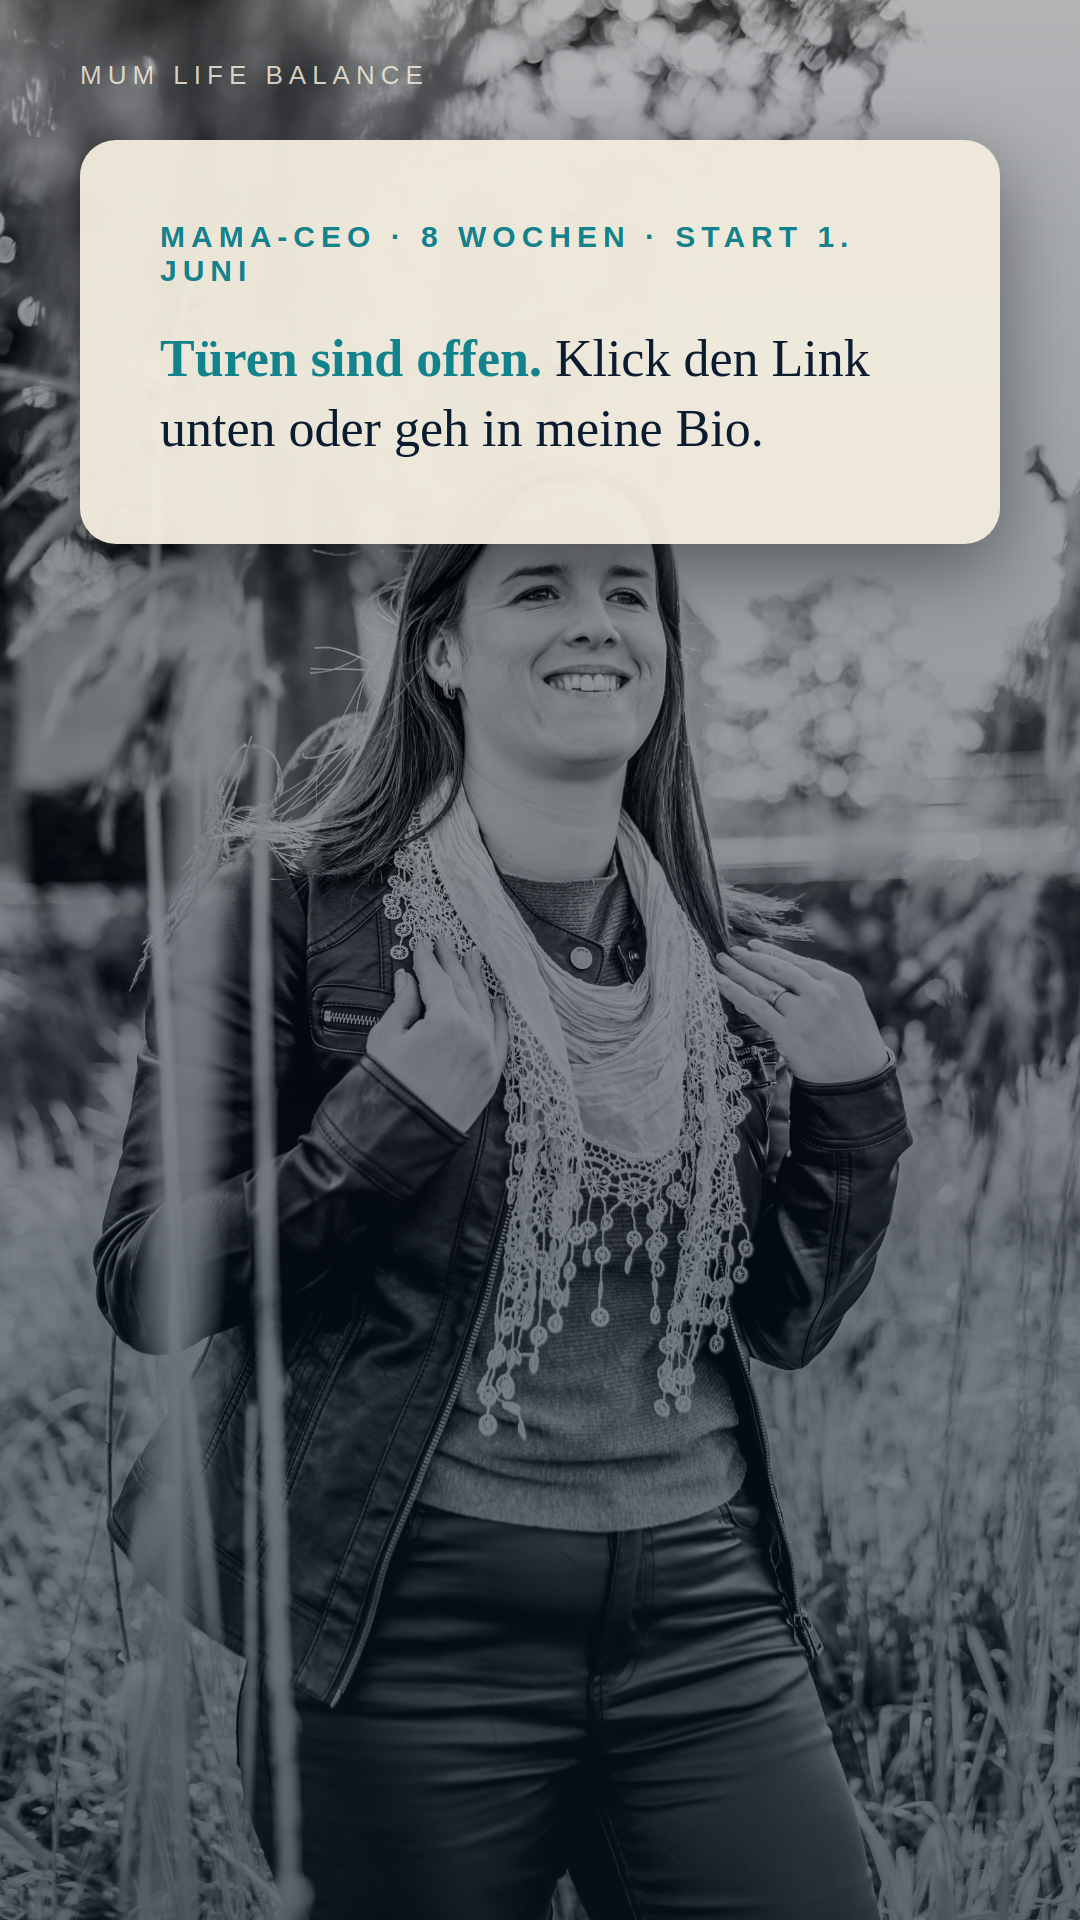
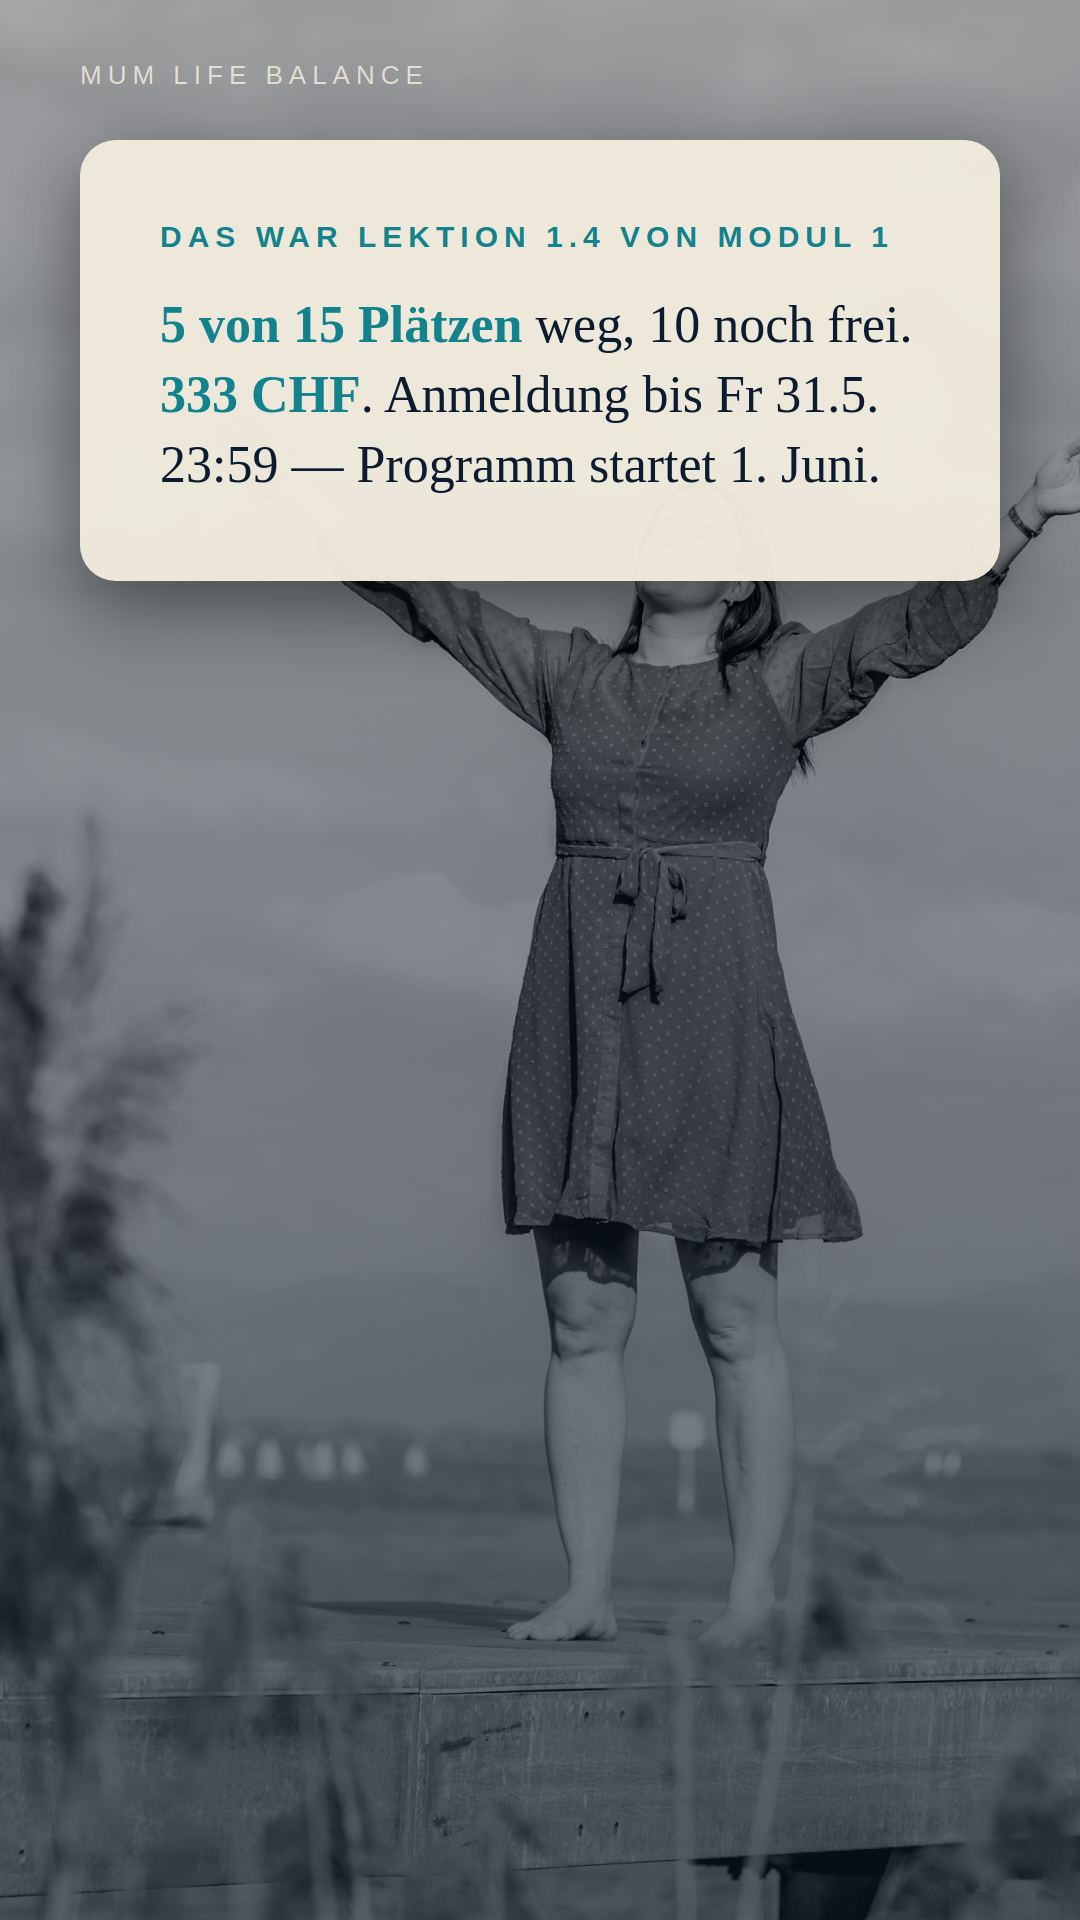
story: Tag 4 v3 — echte Modul-1-Lehre (Lektion 1.4 Power-Window)
Patricia-Korrektur: D/A/S (delegieren/automatisieren/streichen) kommt
aus Stufe-2-Tripwire-Mini-Kurs, NICHT aus Modul 1 von Mama-CEO.
Komplett umgebaut auf echtes Modul-1-Material:

Lektion 1.4 (MASTERY Wochenrhythmus) lehrt:
- 3 Slots: Power-Window + Mama-Slots + Business-Slots
- 1 Wand: Erschoepfungs-Linie

7 Slides bauen das Konzept Schritt fuer Schritt auf:
- Slide 1: Pfingst-Setup + Tipp-Tease
- Slide 2: Konzept „3 Slots + 1 Wand"
- Slide 3: Power-Window (2-3 Fokus-Stunden, schuetzen wie Burg)
- Slide 4: Mama-Slots + Business-Slots erklaert
- Slide 5: Die Erschoepfungs-Wand (Patricia: 19 Uhr)
- Slide 6: Mini-Uebung „schreib 2 Zeilen: Power-Window + Wand"
- Slide 7: Status + CTA (Card top)

Quelle: outputs/produkte/mama-ceo/01-inhaltsverzeichnis.md Lektion 1.4.
ZERO Inhalte aus dem Stufe-2-Tripwire vermischt.

diff --git a/outputs/stories/2026-05-24-salesday-mentoring-mama-ceo-launch-tag-4-pfingsten/slides.html b/outputs/stories/2026-05-24-salesday-mentoring-mama-ceo-launch-tag-4-pfingsten/slides.html
@@ -2,7 +2,7 @@
 <html lang="de">
 <head>
 <meta charset="UTF-8">
-<title>Mama-CEO Launch Tag 4 · 24.5.2026 · Pfingstsonntag · Modul-1-Lehre · 7 Slides</title>
+<title>Mama-CEO Launch Tag 4 · 24.5.2026 · Modul 1.4 · Power-Window · 7 Slides</title>
 <link rel="stylesheet" href="../../../scripts/karussell-render/brand-stories.css">
 <style>
   .slide.foto-slide { width:1080px; height:1920px; position:relative; overflow:hidden; background:#0c1c30; page-break-after:always; break-after:page; }
@@ -24,7 +24,7 @@
 
 <div class="grid">
 
-  <!-- SLIDE 1: HOOK · Pfingst-Setup + Bridge zur Lehre -->
+  <!-- SLIDE 1: HOOK · Pfingst-Setup + Lehr-Bridge -->
   <div class="stage-wrap">
     <div class="stage">
       <div class="slide foto-slide">
@@ -34,15 +34,15 @@
         <div class="card">
           <div class="card-eyebrow">Pfingstsonntag · zuhause</div>
           <div class="card-text hook">
-            Wir geniessen. Und bevor ich grillen geh — ein kleiner <strong>Tipp aus Modul 1</strong>. Direkt umsetzbar. Auch ohne Kurs.
+            Wir geniessen. Und bevor ich grillen geh — ein <strong>Konzept aus Modul 1</strong>, das du heute Abend schon nutzen kannst.
           </div>
         </div>
       </div>
     </div>
-    <div class="frame-label">01 Hook · Pfingsten + Lehr-Setup</div>
+    <div class="frame-label">01 Hook · Lehr-Setup</div>
   </div>
 
-  <!-- SLIDE 2: KONZEPT-REVEAL · Die 3-Entscheidungen-Regel -->
+  <!-- SLIDE 2: KONZEPT-REVEAL · 3 Slots + 1 Wand -->
   <div class="stage-wrap">
     <div class="stage">
       <div class="slide foto-slide">
@@ -50,17 +50,17 @@
         <div class="dim"></div>
         <div class="brand-tag">Mum Life Balance</div>
         <div class="card">
-          <div class="card-eyebrow">Die 3-Entscheidungen-Regel</div>
+          <div class="card-eyebrow">Lektion 1.4 · Wochenrhythmus</div>
           <div class="card-text">
-            Für jede Aufgabe auf deiner To-Do-Liste gibt's <strong>drei Optionen</strong>, die jede Mama-CEO trifft. Was du heute nicht so machst, kostet dich morgen die Wochenenden.
+            Dein Tag hat <strong>drei Slots</strong> und <strong>eine Wand</strong>. Sobald du die kennst, plant sich deine Woche fast von allein.
           </div>
         </div>
       </div>
     </div>
-    <div class="frame-label">02 Konzept · 3-Entscheidungen</div>
+    <div class="frame-label">02 Konzept · 3 Slots + 1 Wand</div>
   </div>
 
-  <!-- SLIDE 3: DELEGIEREN + AUTOMATISIEREN -->
+  <!-- SLIDE 3: POWER-WINDOW -->
   <div class="stage-wrap">
     <div class="stage">
       <div class="slide foto-slide">
@@ -68,17 +68,35 @@
         <div class="dim"></div>
         <div class="brand-tag">Mum Life Balance</div>
         <div class="card">
-          <div class="card-eyebrow">Option 1 + 2</div>
+          <div class="card-eyebrow">Slot 1 · Power-Window</div>
           <div class="card-text">
-            <strong>Delegieren</strong> heisst: wer kann das ausser dir machen? Familie, Au-Pair, Freelancer. <strong>Automatisieren</strong> heisst: welche Vorlage, welcher Bot, welche Mail-Sequenz übernimmt es?
+            Die <strong>2-3 Stunden</strong> am Tag, in denen du wirklich fokussiert arbeitest. Bei mir morgens 8-11 Uhr, bei dir vielleicht 20-22 nach dem Kinder-Schlafen. Diese Stunden schützt du <em>wie eine Burg</em>.
           </div>
         </div>
       </div>
     </div>
-    <div class="frame-label">03 Delegieren + Automatisieren</div>
+    <div class="frame-label">03 Power-Window</div>
   </div>
 
-  <!-- SLIDE 4: STREICHEN · die schwerste Option -->
+  <!-- SLIDE 4: MAMA-SLOTS + BUSINESS-SLOTS -->
+  <div class="stage-wrap">
+    <div class="stage">
+      <div class="slide foto-slide">
+        <img class="bg" src="fotos/slide-04-vision-ende-juli.jpg" alt="">
+        <div class="dim"></div>
+        <div class="brand-tag">Mum Life Balance</div>
+        <div class="card">
+          <div class="card-eyebrow">Slot 2 + 3 · Mama und Business</div>
+          <div class="card-text">
+            <strong>Mama-Slots</strong> sind klar abgegrenzt: Mittagessen, Abendritual, Schulweg. <strong>Business-Slots</strong> auch: dein Power-Window plus 1-2 Admin-Fenster. Was dazwischen liegt, ist beweglich.
+          </div>
+        </div>
+      </div>
+    </div>
+    <div class="frame-label">04 Mama + Business Slots</div>
+  </div>
+
+  <!-- SLIDE 5: DIE ERSCHÖPFUNG-WAND -->
   <div class="stage-wrap">
     <div class="stage">
       <div class="slide foto-slide">
@@ -86,17 +104,17 @@
         <div class="dim"></div>
         <div class="brand-tag">Mum Life Balance</div>
         <div class="card">
-          <div class="card-eyebrow">Option 3</div>
+          <div class="card-eyebrow">Und dann die Wand</div>
           <div class="card-text">
-            <strong>Streichen</strong> heisst: wenn niemand es ablöst, gehört es vielleicht gar nicht auf die Liste. Die <em>schwerste</em> Option — und am häufigsten die richtige.
+            Die <strong>Erschöpfungs-Wand</strong> — die Uhrzeit, ab der du müde bist und nichts mehr produktiv geht. Bei mir <em>19 Uhr</em>. Ab dann darfst du nicht mehr ans Business denken. Punkt.
           </div>
         </div>
       </div>
     </div>
-    <div class="frame-label">04 Streichen · Punchline</div>
+    <div class="frame-label">05 Wand · 19 Uhr</div>
   </div>
 
-  <!-- SLIDE 5: MINI-ÜBUNG · Direkt umsetzbar -->
+  <!-- SLIDE 6: MINI-ÜBUNG · TAKE-HOME -->
   <div class="stage-wrap">
     <div class="stage">
       <div class="slide foto-slide">
@@ -106,48 +124,30 @@
         <div class="card">
           <div class="card-eyebrow">Mini-Übung für heute Abend</div>
           <div class="card-text">
-            Nimm deine To-Do-Liste der letzten Woche. Geh jede Zeile durch und schreib daneben <strong>D / A / S</strong>. Drei Buchstaben — du wirst Augen machen, was alles streichbar ist.
+            Schreib zwei Zeilen auf einen Zettel: <strong>Mein Power-Window ist von … bis …</strong> und <strong>Meine Wand ist um …</strong>. Daraus baust du nächste Woche deinen Rhythmus.
           </div>
         </div>
       </div>
     </div>
-    <div class="frame-label">05 Mini-Übung · Take-Home</div>
+    <div class="frame-label">06 Mini-Übung</div>
   </div>
 
-  <!-- SLIDE 6: STATUS + SOFT BRIDGE -->
+  <!-- SLIDE 7: STATUS + CTA (Card top, Link-Sticker-Slot unten) -->
   <div class="stage-wrap">
     <div class="stage">
       <div class="slide foto-slide">
         <img class="bg" src="fotos/slide-06-cta.jpg" alt="">
         <div class="dim"></div>
         <div class="brand-tag">Mum Life Balance</div>
-        <div class="card">
-          <div class="card-eyebrow">Das war eine von fünf Methoden aus Modul 1</div>
-          <div class="card-text">
-            Stand heute: <strong>5 von 15 Plätzen</strong> weg, 10 noch frei. <strong>333 CHF</strong>. Anmeldung bis Fr 31.5. 23:59 — Programm startet 1. Juni.
-          </div>
-        </div>
-      </div>
-    </div>
-    <div class="frame-label">06 Status + Bridge</div>
-  </div>
-
-  <!-- SLIDE 7: CTA (Card top, Link-Sticker-Slot unten) -->
-  <div class="stage-wrap">
-    <div class="stage">
-      <div class="slide foto-slide">
-        <img class="bg" src="fotos/slide-01-warm-zuhause.jpg" alt="">
-        <div class="dim"></div>
-        <div class="brand-tag">Mum Life Balance</div>
         <div class="card top">
-          <div class="card-eyebrow">Mama-CEO · 8 Wochen · Start 1. Juni</div>
+          <div class="card-eyebrow">Das war Lektion 1.4 von Modul 1</div>
           <div class="card-text">
-            <strong>Türen sind offen.</strong> Klick den Link unten oder geh in meine Bio.
+            <strong>5 von 15 Plätzen</strong> weg, 10 noch frei. <strong>333 CHF</strong>. Anmeldung bis Fr 31.5. 23:59 — Programm startet 1. Juni.
           </div>
         </div>
       </div>
     </div>
-    <div class="frame-label">07 CTA · Link-Sticker-Slot unten</div>
+    <div class="frame-label">07 Status + CTA · Link-Sticker-Slot unten</div>
   </div>
 
 </div>
